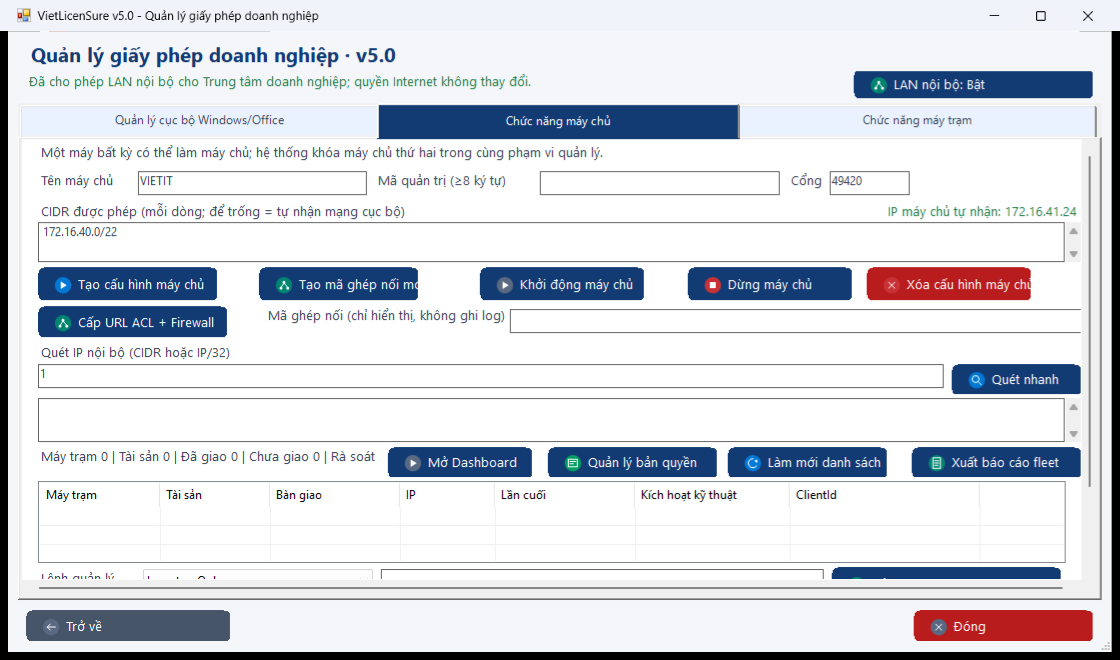
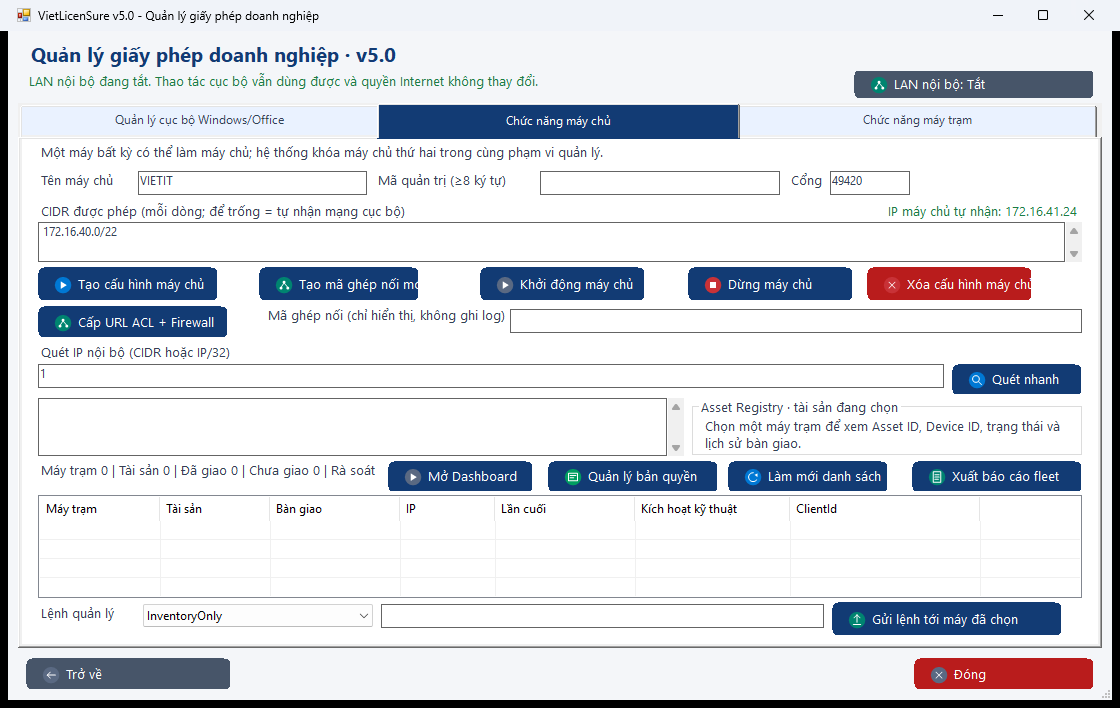
docs: publish asset UI phase 2 evidence

diff --git a/docs/giao-dien.html b/docs/giao-dien.html
@@ -22,7 +22,8 @@
     <section class="wrap article">
       <div class="gallery-grid">
         <article class="shot-card"><div class="shot-frame"><img src="assets/vietlicensure-v5-ui.png" width="1139" height="662" alt="Giao diện tổng quan VietLicenSure v5.0 nhận diện Windows 11 26H2 build 26300"></div><div class="shot-copy"><span class="evidence-tag">Windows 11 26H2 · PASS</span><h2>Tổng quan và catalog hiện hành</h2><p>Build 26300 được nhận diện đúng là Windows 11 26H2; các tác vụ kiểm tra và báo cáo vẫn giữ Offline mặc định.</p></div></article>
-        <article class="shot-card"><div class="shot-frame"><img src="assets/enterprise-assets-server.png" width="1120" height="660" alt="Chức năng máy chủ VietLicenSure với cột Tài sản, Bàn giao và tổng hợp Asset Registry"></div><div class="shot-copy"><span class="evidence-tag">Asset Registry · PASS</span><h2>Tài sản và bàn giao trong LAN</h2><p>Tab Máy chủ hiển thị trực tiếp số liệu tài sản, trạng thái bàn giao và các cột Tài sản/Bàn giao gắn với máy trạm.</p></div></article>
+        <article class="shot-card"><div class="shot-frame"><img src="assets/enterprise-assets-server.png" width="1120" height="708" alt="Chức năng máy chủ VietLicenSure với panel Asset Registry, cột Tài sản và Bàn giao"></div><div class="shot-copy"><span class="evidence-tag">Asset Registry · PASS</span><h2>Tài sản và bàn giao trong LAN</h2><p>Tab Máy chủ hiển thị trực tiếp panel tài sản đang chọn, số liệu bàn giao và các cột Tài sản/Bàn giao gắn với máy trạm.</p></div></article>
+        <article class="shot-card"><div class="shot-frame"><img src="assets/enterprise-assets-client.png" width="1120" height="708" alt="Chức năng máy trạm VietLicenSure với nhận dạng tài sản read-only"></div><div class="shot-copy"><span class="evidence-tag">Máy trạm · PASS</span><h2>Nhận dạng tài sản chỉ đọc</h2><p>Tab Máy trạm hiển thị Device ID rút gọn, trạng thái ghép nối, máy chủ và lần đồng bộ cuối mà không thu thập định danh phần cứng thô.</p></div></article>
         <article class="shot-card"><div class="shot-frame"><img src="assets/runtime-dashboard-windows11.png" width="1000" height="708" alt="VietLicenSure đang chạy Offline trên Windows 11 25H2 trong ca kiểm thử giới hạn quyền"></div><div class="shot-copy"><span class="evidence-tag">Windows 11 25H2 · PASS</span><h2>Chạy Offline và giới hạn quyền</h2><p>Ảnh từ ca smoke artifact-bound của đúng EXE hiện hành: token Medium, Offline, giao diện VI, policy không đổi và không còn tiến trình sau khi đóng.</p></div></article>
         <article class="shot-card"><div class="shot-frame compact"><img src="assets/environment-safety-warning.png" width="417" height="191" alt="Hộp thoại cảnh báo môi trường thực thi của VietLicenSure"></div><div class="shot-copy"><span class="evidence-tag">Cảnh báo an toàn</span><h2>Không âm thầm thay đổi môi trường</h2><p>Công cụ cảnh báo khi môi trường chạy cần được xem xét; người dùng có thể dừng thay vì tự động bỏ qua chính sách hệ thống.</p></div></article>
         <article class="shot-card"><div class="shot-frame compact"><div class="dashboard-mock" aria-label="Minh họa Central Dashboard"><div class="mock-top"><span>VietLicenSure Central</span><span>v5.0</span></div><div class="mock-stats"><div class="mock-stat"><strong>24</strong><span>Máy quản lý</span></div><div class="mock-stat"><strong>21</strong><span>Đang báo cáo</span></div><div class="mock-stat"><strong>3</strong><span>Cần xem lại</span></div></div><table class="mock-table"><thead><tr><th>Máy</th><th>Trạng thái</th><th>Lần cuối</th></tr></thead><tbody><tr><td>WS-01</td><td><span class="dot"></span>Online</td><td>2 phút</td></tr><tr><td>WS-07</td><td><span class="dot"></span>Stale</td><td>8 giờ</td></tr><tr><td>WS-12</td><td><span class="dot off"></span>Offline</td><td>2 ngày</td></tr></tbody></table></div></div><div class="shot-copy"><span class="evidence-tag">Minh họa giao diện</span><h2>Central Dashboard chỉ đọc</h2><p>Theo dõi Online/Stale/Offline, lần báo cáo cuối, License Compliance và cảnh báo; không điều khiển máy trạm.</p></div></article>

diff --git a/docs/gallery-en.html b/docs/gallery-en.html
@@ -22,7 +22,8 @@
     <section class="wrap article">
       <div class="gallery-grid">
         <article class="shot-card"><div class="shot-frame"><img src="assets/vietlicensure-v5-ui.png" width="1139" height="662" alt="VietLicenSure v5.0 overview recognizing Windows 11 26H2 build 26300"></div><div class="shot-copy"><span class="evidence-tag">Windows 11 26H2 · PASS</span><h2>Overview and current catalog</h2><p>Build 26300 is correctly identified as Windows 11 26H2 while assessment and reporting remain Offline by default.</p></div></article>
-        <article class="shot-card"><div class="shot-frame"><img src="assets/enterprise-assets-server.png" width="1120" height="660" alt="VietLicenSure server features with Asset, Assignment, and Asset Registry summary fields"></div><div class="shot-copy"><span class="evidence-tag">Asset Registry · PASS</span><h2>Assets and assignments on the LAN</h2><p>The Server tab exposes asset counts, assignment state, and Asset/Assignment columns for paired endpoints.</p></div></article>
+        <article class="shot-card"><div class="shot-frame"><img src="assets/enterprise-assets-server.png" width="1120" height="708" alt="VietLicenSure Server tab with the Asset Registry panel and Asset/Assignment columns"></div><div class="shot-copy"><span class="evidence-tag">Asset Registry · PASS</span><h2>Assets and assignments on the LAN</h2><p>The Server tab exposes the selected-asset panel, assignment counts, and Asset/Assignment columns for paired endpoints.</p></div></article>
+        <article class="shot-card"><div class="shot-frame"><img src="assets/enterprise-assets-client.png" width="1120" height="708" alt="VietLicenSure Client tab with read-only asset identity"></div><div class="shot-copy"><span class="evidence-tag">Client · PASS</span><h2>Read-only endpoint asset identity</h2><p>The Client tab shows a shortened Device ID, pairing state, server, and last synchronization without collecting raw hardware identifiers.</p></div></article>
         <article class="shot-card"><div class="shot-frame"><img src="assets/runtime-dashboard-windows11.png" width="1000" height="708" alt="VietLicenSure running Offline on Windows 11 25H2 in a limited-token test"></div><div class="shot-copy"><span class="evidence-tag">Windows 11 25H2 · PASS</span><h2>Offline and limited-token runtime</h2><p>Artifact-bound smoke evidence for the exact current EXE: Medium token, Offline mode, Vietnamese UI, unchanged policy, and zero remaining processes after close.</p></div></article>
         <article class="shot-card"><div class="shot-frame compact"><img src="assets/environment-safety-warning.png" width="417" height="191" alt="VietLicenSure execution-environment safety warning"></div><div class="shot-copy"><span class="evidence-tag">Safety warning</span><h2>No silent environment changes</h2><p>The tool warns when the execution environment needs review, allowing the operator to stop instead of bypassing system policy.</p></div></article>
         <article class="shot-card"><div class="shot-frame compact"><div class="dashboard-mock" aria-label="Central Dashboard illustration"><div class="mock-top"><span>VietLicenSure Central</span><span>v5.0</span></div><div class="mock-stats"><div class="mock-stat"><strong>24</strong><span>Managed</span></div><div class="mock-stat"><strong>21</strong><span>Reporting</span></div><div class="mock-stat"><strong>3</strong><span>Review</span></div></div><table class="mock-table"><thead><tr><th>Endpoint</th><th>Status</th><th>Last seen</th></tr></thead><tbody><tr><td>WS-01</td><td><span class="dot"></span>Online</td><td>2 min</td></tr><tr><td>WS-07</td><td><span class="dot"></span>Stale</td><td>8 hours</td></tr><tr><td>WS-12</td><td><span class="dot off"></span>Offline</td><td>2 days</td></tr></tbody></table></div></div><div class="shot-copy"><span class="evidence-tag">Layout illustration</span><h2>Read-only Central Dashboard</h2><p>Online/Stale/Offline, last seen, License Compliance, and alerts without endpoint control.</p></div></article>

diff --git a/docs/tai-lieu.html b/docs/tai-lieu.html
@@ -18,7 +18,7 @@
       <section id="it-admin" class="article-section doc-role"><h2>IT và quản trị LAN</h2><strong>Agent, máy chủ, Dashboard và báo cáo fleet</strong><p>Cấu hình LAN, ghép nối Agent, duy trì sau reboot, mở Central Dashboard chỉ đọc và xử lý máy lâu không báo cáo.</p><div class="actions"><a class="button primary" href="huong-dan.html">Hướng dẫn Dashboard</a><a class="button secondary" href="troubleshooting.html">Xử lý sự cố LAN</a></div></section>
       <section id="security" class="article-section doc-role"><h2>Bảo mật và reviewer</h2><strong>Đánh giá bằng chứng thay vì tin vào nhãn</strong><p>Đối chiếu threat model, provenance, chữ ký, hash, giới hạn self-signed, chính sách dữ liệu và quyền sử dụng mã nguồn.</p><div class="actions"><a class="button primary" href="bao-mat-rieng-tu.html">Chính sách bảo mật</a><a class="button secondary" href="chinh-sach-phan-mem.html">Chính sách phần mềm</a><a class="button secondary" href="https://github.com/thanhvietithopnghia-rgb/VietLicenSure/blob/main/SECURITY.md">SECURITY.md</a><a class="button secondary" href="https://github.com/thanhvietithopnghia-rgb/VietLicenSure/blob/main/THREAT-MODEL-v5.0.md">Threat model</a></div></section>
       <section id="enterprise" class="article-section doc-role"><h2>Mua sắm, pháp chế và tuân thủ</h2><strong>Biết rõ phạm vi trước khi phê duyệt</strong><p>VietLicenSure tách trạng thái kỹ thuật khỏi quyền sở hữu; Official Self-Signed không phải public-CA/EV/Store và independent review là NotReviewed.</p><div class="actions"><a class="button primary" href="bao-mat-rieng-tu.html">Bảo mật &amp; Quyền riêng tư</a><a class="button secondary" href="chinh-sach-phan-mem.html">Sử dụng phần mềm &amp; mã nguồn</a><a class="button secondary" href="https://github.com/thanhvietithopnghia-rgb/VietLicenSure/blob/main/LICENSE-NOTICE.txt">Thông báo giấy phép</a></div></section>
-      <section id="release" class="article-section doc-role"><h2>Xác minh phát hành</h2><strong>Build 5.0-production-20261009 · Official Self-Signed</strong><p>EXE hiện hành có SHA-256:</p><pre>BEA3BC78F9CEEA82DB3275F81DC386B7F73DDAA2E7B54A4C5A93FDC0FA9F47E7</pre><div class="actions"><a class="button primary" href="https://github.com/thanhvietithopnghia-rgb/VietLicenSure/releases/tag/v5.0">Release v5.0</a><a class="button secondary" href="https://github.com/thanhvietithopnghia-rgb/VietLicenSure/blob/main/RELEASE-VERIFICATION-v5.0.md">Quy trình xác minh</a></div></section>
+      <section id="release" class="article-section doc-role"><h2>Xác minh phát hành</h2><strong>Build 5.0-production-20261010 · Official Self-Signed</strong><p>EXE hiện hành có SHA-256:</p><pre>FE781C0E97FD331CB63151298D196F45D53B6F873DFDDC487AD51D2CAAB1953F</pre><div class="actions"><a class="button primary" href="https://github.com/thanhvietithopnghia-rgb/VietLicenSure/releases/tag/v5.0">Release v5.0</a><a class="button secondary" href="https://github.com/thanhvietithopnghia-rgb/VietLicenSure/blob/main/RELEASE-VERIFICATION-v5.0.md">Quy trình xác minh</a></div></section>
       <section id="support" class="article-section doc-role"><h2>Hỗ trợ</h2><strong>Gửi đủ bằng chứng, không gửi bí mật</strong><p>Kèm phiên bản, bước tái hiện, ảnh và support bundle đã che định danh. Không đăng full key, mã ghép nối, mật khẩu hoặc token.</p><div class="actions"><a class="button primary" href="troubleshooting.html">Xử lý sự cố</a><a class="button secondary" href="https://github.com/thanhvietithopnghia-rgb/VietLicenSure/issues/new/choose">Tạo Issue</a><a class="button secondary" href="tac-gia.html">Liên hệ tác giả</a></div></section>
     </div>
   </main>

diff --git a/docs/documentation-en.html b/docs/documentation-en.html
@@ -18,7 +18,7 @@
       <section id="it-admin" class="article-section doc-role"><h2>IT and LAN administration</h2><strong>Agent, server, Dashboard and fleet reports</strong><p>Configure LAN, pair Agents, preserve operation after reboot, open the read-only Dashboard and investigate stale endpoints.</p><div class="actions"><a class="button primary" href="guide-en.html">Dashboard guide</a><a class="button secondary" href="troubleshooting-en.html">LAN troubleshooting</a></div></section>
       <section id="security" class="article-section doc-role"><h2>Security and reviewers</h2><strong>Assess evidence, not labels</strong><p>Review the threat model, provenance, signatures, hashes, self-signed limitations, data policy and source-use rights.</p><div class="actions"><a class="button primary" href="security-privacy-en.html">Security policy</a><a class="button secondary" href="software-policy-en.html">Software policy</a><a class="button secondary" href="https://github.com/thanhvietithopnghia-rgb/VietLicenSure/blob/main/SECURITY.md">SECURITY.md</a><a class="button secondary" href="https://github.com/thanhvietithopnghia-rgb/VietLicenSure/blob/main/THREAT-MODEL-v5.0.md">Threat model</a></div></section>
       <section id="enterprise" class="article-section doc-role"><h2>Procurement, legal and compliance</h2><strong>Understand the boundary before approval</strong><p>VietLicenSure separates technical state from ownership. Official Self-Signed is not public-CA/EV/Store signing and independent review is NotReviewed.</p><div class="actions"><a class="button primary" href="security-privacy-en.html">Security &amp; Privacy</a><a class="button secondary" href="software-policy-en.html">Software &amp; source use</a><a class="button secondary" href="https://github.com/thanhvietithopnghia-rgb/VietLicenSure/blob/main/LICENSE-NOTICE.txt">Licence notice</a></div></section>
-      <section id="release" class="article-section doc-role"><h2>Release verification</h2><strong>Build 5.0-production-20261009 · Official Self-Signed</strong><p>Current EXE SHA-256:</p><pre>BEA3BC78F9CEEA82DB3275F81DC386B7F73DDAA2E7B54A4C5A93FDC0FA9F47E7</pre><div class="actions"><a class="button primary" href="https://github.com/thanhvietithopnghia-rgb/VietLicenSure/releases/tag/v5.0">v5.0 release</a><a class="button secondary" href="https://github.com/thanhvietithopnghia-rgb/VietLicenSure/blob/main/RELEASE-VERIFICATION-v5.0.md">Verification procedure</a></div></section>
+      <section id="release" class="article-section doc-role"><h2>Release verification</h2><strong>Build 5.0-production-20261010 · Official Self-Signed</strong><p>Current EXE SHA-256:</p><pre>FE781C0E97FD331CB63151298D196F45D53B6F873DFDDC487AD51D2CAAB1953F</pre><div class="actions"><a class="button primary" href="https://github.com/thanhvietithopnghia-rgb/VietLicenSure/releases/tag/v5.0">v5.0 release</a><a class="button secondary" href="https://github.com/thanhvietithopnghia-rgb/VietLicenSure/blob/main/RELEASE-VERIFICATION-v5.0.md">Verification procedure</a></div></section>
       <section id="support" class="article-section doc-role"><h2>Support</h2><strong>Provide evidence, never secrets</strong><p>Include version, reproduction steps, screenshots and a redacted support bundle. Never publish full keys, pairing codes, passwords or tokens.</p><div class="actions"><a class="button primary" href="troubleshooting-en.html">Troubleshooting</a><a class="button secondary" href="https://github.com/thanhvietithopnghia-rgb/VietLicenSure/issues/new/choose">Create issue</a><a class="button secondary" href="author-en.html">Contact author</a></div></section>
     </div>
   </main>

diff --git a/docs/huong-dan.html b/docs/huong-dan.html
@@ -19,7 +19,7 @@
     <div class="page-hero"><div class="eyebrow">Hướng dẫn người mới</div><h1>Tải đúng, xác minh đúng, xử lý an toàn</h1><p>Bạn không cần biết PowerShell để sử dụng VietLicenSure. Dừng lại nếu checksum, chữ ký hoặc nguồn tải không khớp.</p></div>
     <div class="article">
       <section class="article-section"><h2>1. Tải từ nguồn chính thức</h2><p>Chỉ tải từ GitHub Release chính thức. Không dùng EXE được gửi lại qua diễn đàn, kho lạ hoặc đã đổi tên/đóng gói.</p><div class="actions"><a class="button primary" href="https://github.com/thanhvietithopnghia-rgb/VietLicenSure/releases/download/v5.0/VietLicenSure-v5.0.exe" download>Tải EXE v5.0</a><a class="button secondary" href="https://github.com/thanhvietithopnghia-rgb/VietLicenSure/releases/tag/v5.0">Xem Release</a></div></section>
-      <section class="article-section"><h2>2. Xác minh trước khi mở</h2><p>Trong gói đầy đủ, chạy <code>VERIFY-RELEASE.cmd</code> và yêu cầu kết quả <span class="good">0 lỗi</span>. SHA-256 của EXE hiện hành:</p><pre>BEA3BC78F9CEEA82DB3275F81DC386B7F73DDAA2E7B54A4C5A93FDC0FA9F47E7</pre><p>Nếu chỉ có EXE, dùng PowerShell:</p><pre>Get-FileHash .\VietLicenSure-v5.0.exe -Algorithm SHA256
+      <section class="article-section"><h2>2. Xác minh trước khi mở</h2><p>Trong gói đầy đủ, chạy <code>VERIFY-RELEASE.cmd</code> và yêu cầu kết quả <span class="good">0 lỗi</span>. SHA-256 của EXE hiện hành:</p><pre>FE781C0E97FD331CB63151298D196F45D53B6F873DFDDC487AD51D2CAAB1953F</pre><p>Nếu chỉ có EXE, dùng PowerShell:</p><pre>Get-FileHash .\VietLicenSure-v5.0.exe -Algorithm SHA256
 Get-AuthenticodeSignature .\VietLicenSure-v5.0.exe</pre><div class="notice"><strong>Dừng lại</strong> nếu hash khác, chữ ký thiếu/không hợp lệ, signer không khớp hoặc timestamp bị thiếu.</div></section>
       <section class="article-section"><h2>3. Chạy bằng tài khoản thường</h2><p>Không cần chạy toàn bộ ứng dụng bằng “Run as administrator”. Chỉ chấp nhận UAC khi bạn vừa chọn một tác vụ thực sự cần quyền cao hơn.</p><p>Giữ <strong>Offline</strong> khi kiểm tra cục bộ. Online chung chỉ cập nhật danh mục ký số rồi dừng. Nếu bật Online từ tác vụ Khắc phục đang chờ, VietLicenSure quay lại đúng phạm vi, quét lại và hiển thị xem trước; chỉ thay đổi hệ thống sau một lần xác nhận riêng và không tự tạo báo cáo. LAN dùng công tắc riêng.</p></section>
       <section class="article-section"><h2>4. Đọc kết quả đúng nghĩa</h2><div class="table-wrap"><table class="data"><thead><tr><th>Trạng thái</th><th>Cách hiểu</th></tr></thead><tbody><tr><td class="good">Đã kích hoạt / Licensed</td><td>Trạng thái kỹ thuật trong phạm vi đã quét; không tự chứng minh quyền sở hữu.</td></tr><tr><td class="warn">Cần xác minh</td><td>Thiếu bằng chứng hoặc cần đối chiếu hóa đơn, hợp đồng, tài khoản hay portal.</td></tr><tr><td>Cần Repair</td><td>Edition, dịch vụ hoặc tệp hệ thống có vấn đề; ưu tiên công cụ chính thức.</td></tr><tr><td class="bad">IntegrityCompromised</td><td>Tệp/chữ ký không khớp; dừng thao tác thay đổi và tải lại từ nguồn chính thức.</td></tr></tbody></table></div></section>

diff --git a/docs/guide-en.html b/docs/guide-en.html
@@ -19,7 +19,7 @@
     <div class="page-hero"><div class="eyebrow">First-time user guide</div><h1>Download correctly, verify first, act safely</h1><p>You do not need PowerShell expertise to use VietLicenSure. Stop if the checksum, signature, or download source does not match.</p></div>
     <div class="article">
       <section class="article-section"><h2>1. Download from the official source</h2><p>Use only the official GitHub Release. Do not run an EXE redistributed through forums, unknown archives, or repackaged downloads.</p><div class="actions"><a class="button primary" href="https://github.com/thanhvietithopnghia-rgb/VietLicenSure/releases/download/v5.0/VietLicenSure-v5.0.exe" download>Download EXE v5.0</a><a class="button secondary" href="https://github.com/thanhvietithopnghia-rgb/VietLicenSure/releases/tag/v5.0">View release</a></div></section>
-      <section class="article-section"><h2>2. Verify before launch</h2><p>In the full package, run <code>VERIFY-RELEASE.cmd</code> and require <span class="good">0 errors</span>. Current EXE SHA-256:</p><pre>BEA3BC78F9CEEA82DB3275F81DC386B7F73DDAA2E7B54A4C5A93FDC0FA9F47E7</pre><p>When you only have the EXE, use PowerShell:</p><pre>Get-FileHash .\VietLicenSure-v5.0.exe -Algorithm SHA256
+      <section class="article-section"><h2>2. Verify before launch</h2><p>In the full package, run <code>VERIFY-RELEASE.cmd</code> and require <span class="good">0 errors</span>. Current EXE SHA-256:</p><pre>FE781C0E97FD331CB63151298D196F45D53B6F873DFDDC487AD51D2CAAB1953F</pre><p>When you only have the EXE, use PowerShell:</p><pre>Get-FileHash .\VietLicenSure-v5.0.exe -Algorithm SHA256
 Get-AuthenticodeSignature .\VietLicenSure-v5.0.exe</pre><div class="notice"><strong>Stop</strong> if the hash differs, the signature is missing/invalid, the signer does not match, or the timestamp is absent.</div></section>
       <section class="article-section"><h2>3. Run as a standard user</h2><p>You do not need to launch the entire application with “Run as administrator.” Accept UAC only after selecting a task that genuinely requires elevation.</p><p>Stay <strong>Offline</strong> for local assessment. The general Online switch only refreshes the signed catalog and then stops. When Online is enabled from a pending remediation task, VietLicenSure returns to that scope, rescans, and shows a preview; a separate confirmation is required before any system change, and no report starts automatically. LAN uses a separate switch.</p></section>
       <section class="article-section"><h2>4. Interpret results correctly</h2><div class="table-wrap"><table class="data"><thead><tr><th>Status</th><th>Meaning</th></tr></thead><tbody><tr><td class="good">Activated / Licensed</td><td>Technical status within the observed scope; it does not prove legal entitlement.</td></tr><tr><td class="warn">Needs verification</td><td>Evidence is incomplete or requires an invoice, agreement, account, or portal check.</td></tr><tr><td>Repair needed</td><td>An edition, service, or system file needs attention; prefer official repair tools.</td></tr><tr><td class="bad">IntegrityCompromised</td><td>A file/signature mismatch was found; stop changes and obtain a clean official copy.</td></tr></tbody></table></div></section>

diff --git a/docs/index.html b/docs/index.html
@@ -42,8 +42,8 @@
     <aside class="release-card" aria-labelledby="release-title">
       <h2 id="release-title">Bản phát hành hiện hành</h2>
       <p>Đối chiếu thông tin này trước khi chạy tệp tải về.</p>
-      <div class="release-grid"><div class="release-item"><span>Phiên bản</span><strong>v5.0</strong></div><div class="release-item"><span>Build</span><strong>5.0-production-20261009</strong></div><div class="release-item"><span>Kênh ký</span><strong>Official Self-Signed</strong></div><div class="release-item"><span>Trạng thái QA</span><strong>Đã PASS exact-hash</strong></div></div>
-      <div class="hash"><div class="hash-head"><span>SHA-256 của EXE</span><button class="copy" type="button" data-copy="release-hash" data-copied-label="Đã sao chép">Sao chép</button></div><code id="release-hash">BEA3BC78F9CEEA82DB3275F81DC386B7F73DDAA2E7B54A4C5A93FDC0FA9F47E7</code></div>
+      <div class="release-grid"><div class="release-item"><span>Phiên bản</span><strong>v5.0</strong></div><div class="release-item"><span>Build</span><strong>5.0-production-20261010</strong></div><div class="release-item"><span>Kênh ký</span><strong>Official Self-Signed</strong></div><div class="release-item"><span>Trạng thái QA</span><strong>Đã PASS exact-hash</strong></div></div>
+      <div class="hash"><div class="hash-head"><span>SHA-256 của EXE</span><button class="copy" type="button" data-copy="release-hash" data-copied-label="Đã sao chép">Sao chép</button></div><code id="release-hash">FE781C0E97FD331CB63151298D196F45D53B6F873DFDDC487AD51D2CAAB1953F</code></div>
       <p><strong>Source:</strong> <code>45917189696922fd8f755c7c2463cfa4d90957bf</code><br><strong>Bundle:</strong> <code>3b49606b9a8cb477156003b3bb5c72b6db9f9d83</code></p>
       <p><a href="https://github.com/thanhvietithopnghia-rgb/VietLicenSure/blob/main/RELEASE-VERIFICATION-v5.0.md">Quy trình xác minh đầy đủ</a></p>
     </aside>

diff --git a/docs/en.html b/docs/en.html
@@ -41,8 +41,8 @@
     </div>
     <aside class="release-card" aria-labelledby="release-title">
       <h2 id="release-title">Current release</h2><p>Match these values before running a downloaded file.</p>
-      <div class="release-grid"><div class="release-item"><span>Version</span><strong>v5.0</strong></div><div class="release-item"><span>Build</span><strong>5.0-production-20261009</strong></div><div class="release-item"><span>Signing channel</span><strong>Official Self-Signed</strong></div><div class="release-item"><span>QA status</span><strong>Exact-hash PASS</strong></div></div>
-      <div class="hash"><div class="hash-head"><span>EXE SHA-256</span><button class="copy" type="button" data-copy="release-hash" data-copied-label="Copied">Copy</button></div><code id="release-hash">BEA3BC78F9CEEA82DB3275F81DC386B7F73DDAA2E7B54A4C5A93FDC0FA9F47E7</code></div>
+      <div class="release-grid"><div class="release-item"><span>Version</span><strong>v5.0</strong></div><div class="release-item"><span>Build</span><strong>5.0-production-20261010</strong></div><div class="release-item"><span>Signing channel</span><strong>Official Self-Signed</strong></div><div class="release-item"><span>QA status</span><strong>Exact-hash PASS</strong></div></div>
+      <div class="hash"><div class="hash-head"><span>EXE SHA-256</span><button class="copy" type="button" data-copy="release-hash" data-copied-label="Copied">Copy</button></div><code id="release-hash">FE781C0E97FD331CB63151298D196F45D53B6F873DFDDC487AD51D2CAAB1953F</code></div>
       <p><strong>Source:</strong> <code>45917189696922fd8f755c7c2463cfa4d90957bf</code><br><strong>Bundle:</strong> <code>3b49606b9a8cb477156003b3bb5c72b6db9f9d83</code></p><p><a href="https://github.com/thanhvietithopnghia-rgb/VietLicenSure/blob/main/RELEASE-VERIFICATION-v5.0.md">Full verification procedure</a></p>
     </aside>
   </div>
